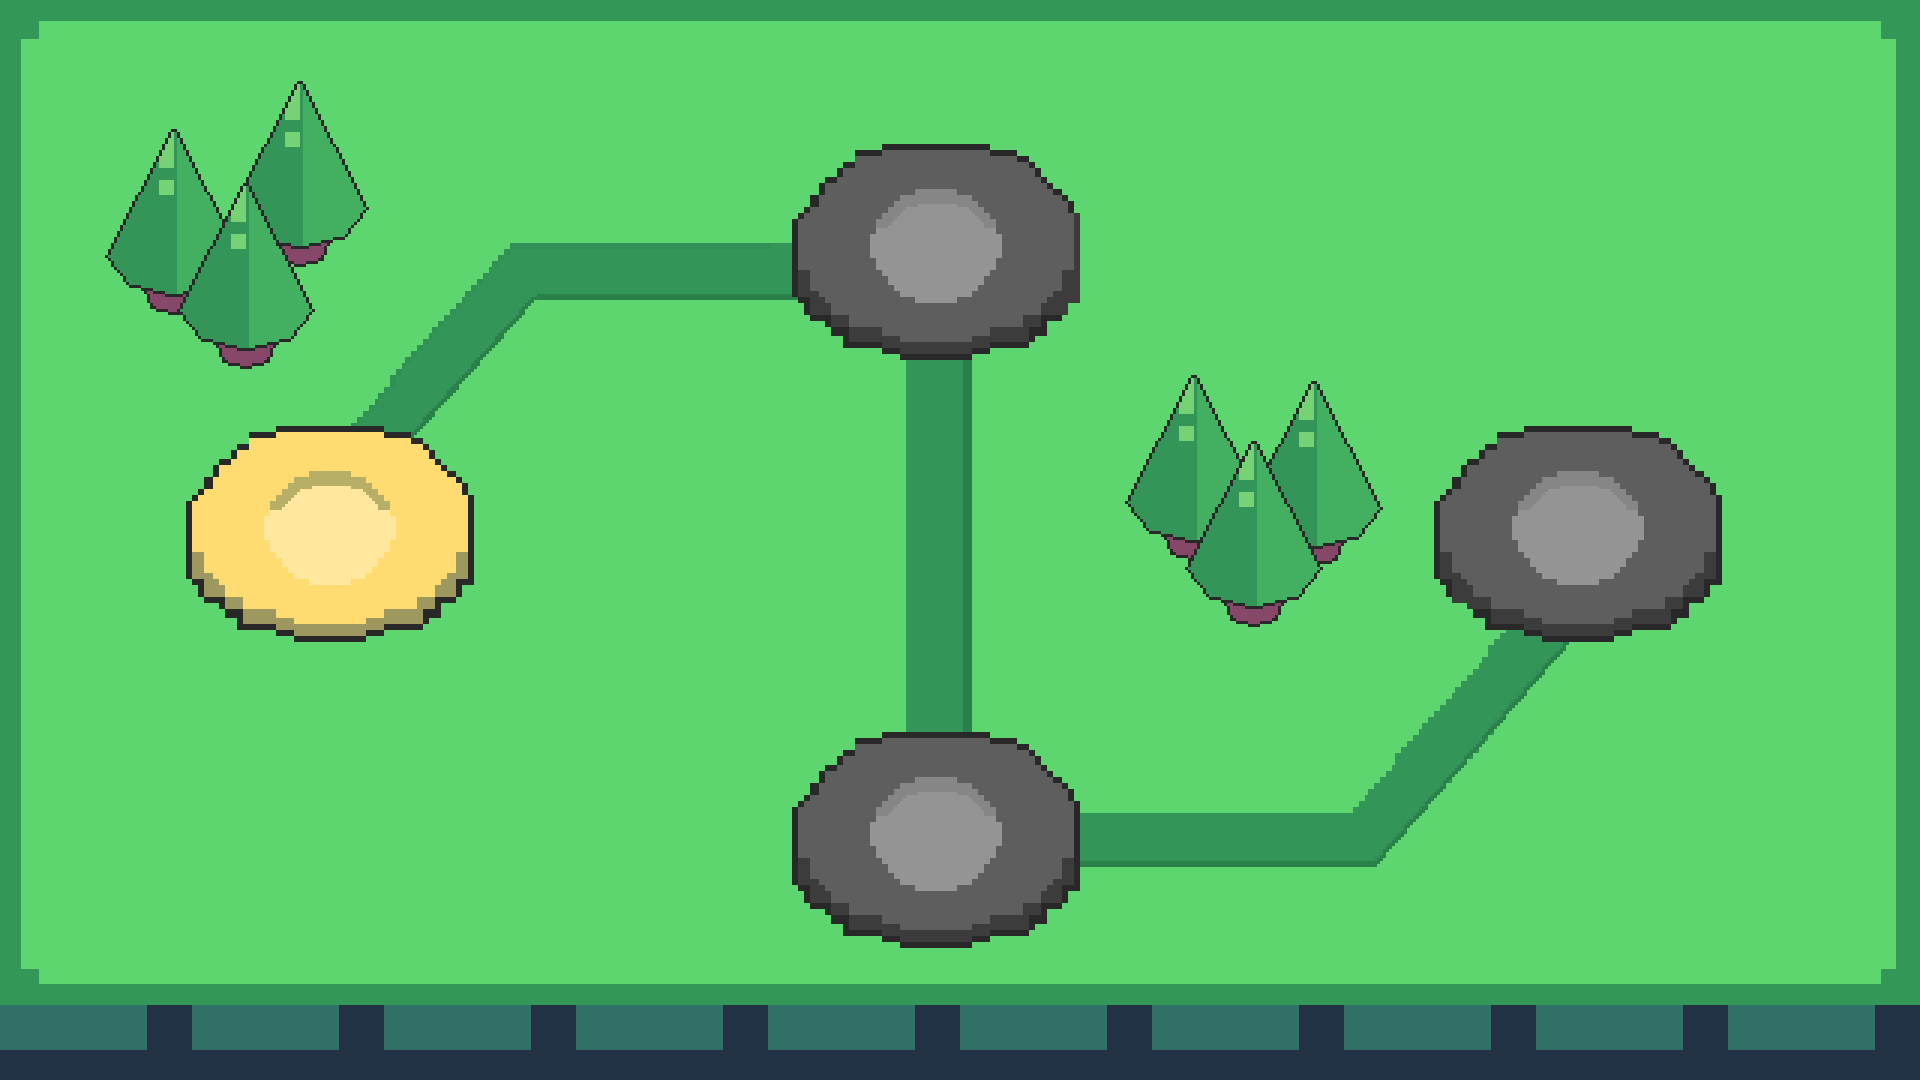
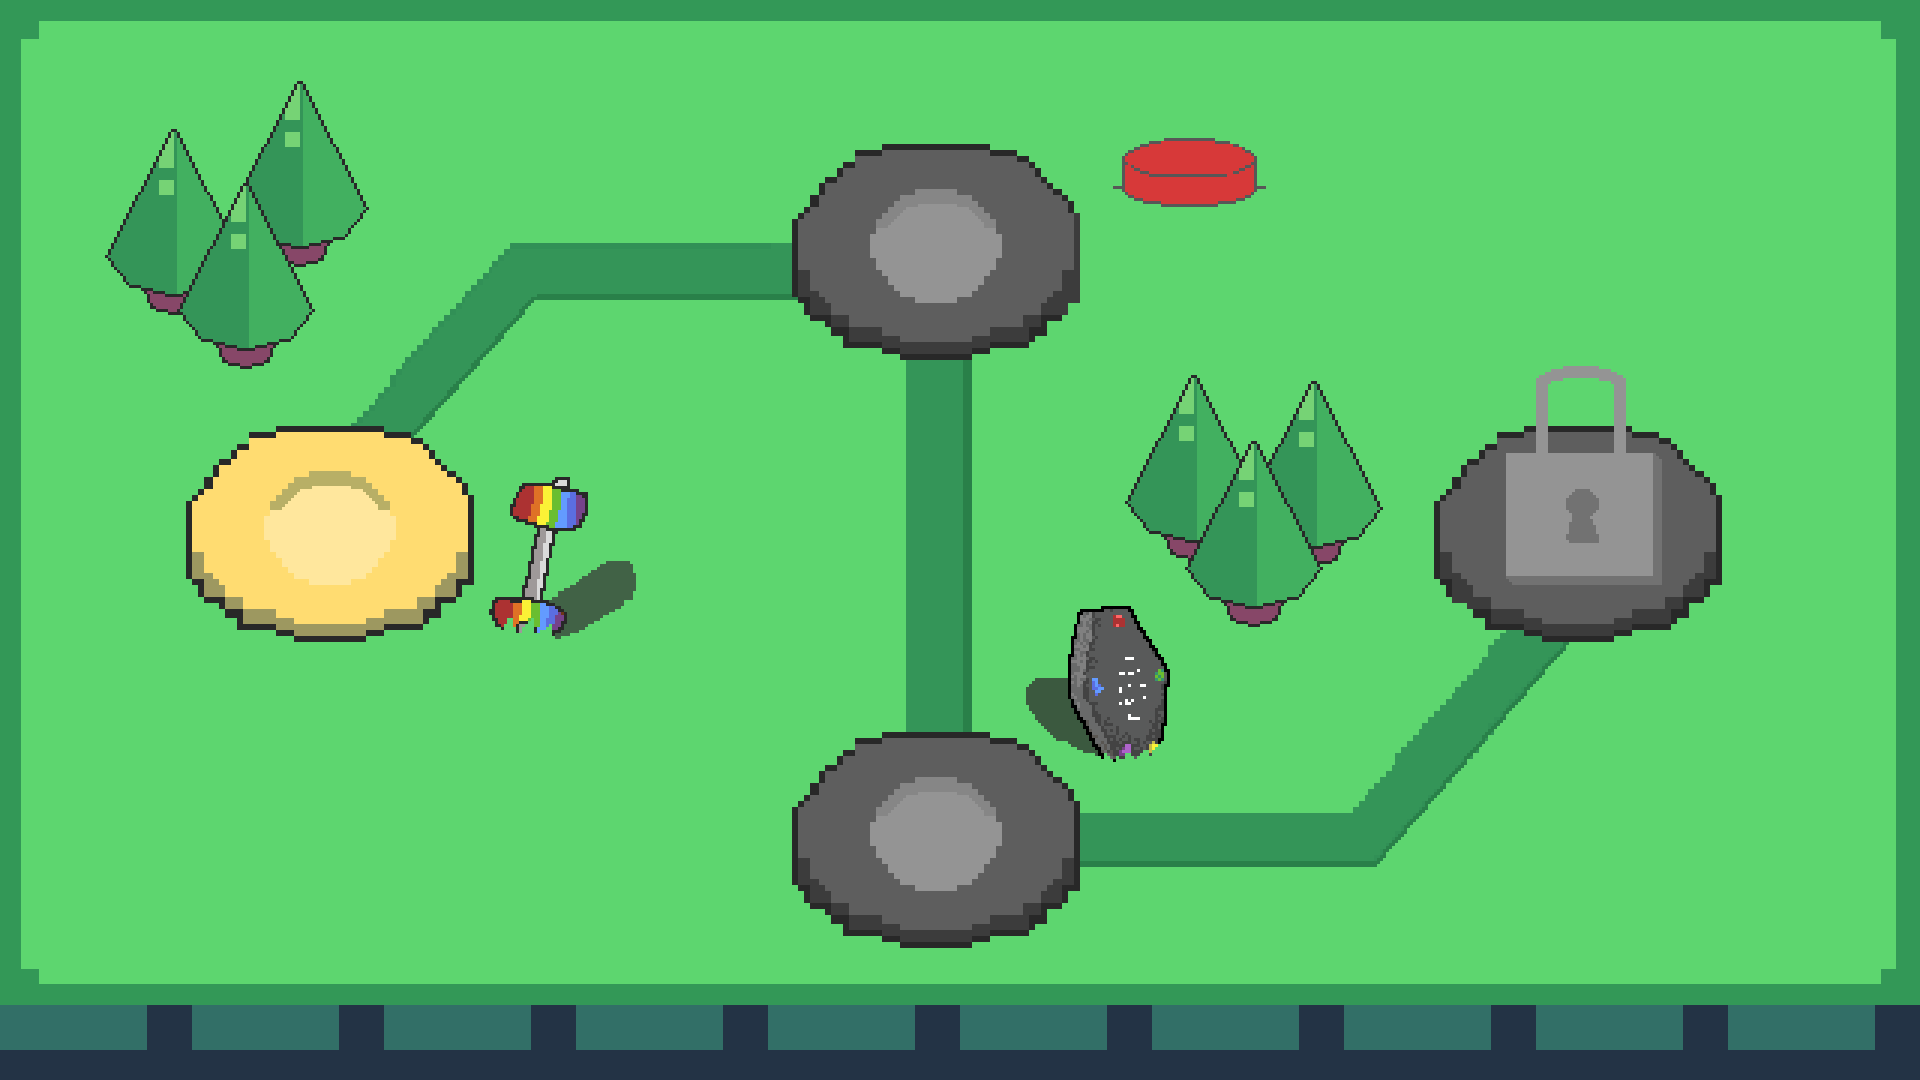
map1 완료!

diff --git a/map1.js b/map1.js
@@ -1,51 +1,73 @@
 class Map1 {
     constructor() {
-      // this.chrX = width / 2;
-      // this.chrY = height * 2/3;
-      // this.targetX = 0;
-      // this.targetY = 0;
+      this.chrX = -30;
+      this.chrY = height * 40 / 100;
+      this.targetX = 0;
+      // this.targetY = height * 45 / 100;
       // this.speed = 5;
-      // this.moveOn = false;
+      this.moveOn = false;
     }
 
     display() {
         imageMode(CENTER);
-        image(map1_bg[0], width / 2, height / 2, width, height);
+        if (frameCount % 60 < 30) image(map1_bg[0], width / 2, height / 2, width, height);
+        else image(map1_bg[1], width / 2, height / 2, width, height);
+
+        //spacebar
+        if (frameCount % 60 < 30) image(map1_chr[1], width / 2, height / 2, width, height);
+        else image(map1_chr[2], width / 2, height / 2, width, height);
     
         // 캐릭터 그리기
-        // image(map1_chr[0], this.chrX, this.chrY, 200, 200);
-        image(map1_chr[0], width / 2, height / 2, width, height);
+        imageMode(CENTER);
+        image(map1_chr[0], this.chrX, this.chrY, map1_chr[0].width, map1_chr[0].height);
+        // image(map1_chr[0], width / 2, height / 2);
         playOnce(snd[1]);
           
     }
 
-    // move() {
-    //   this.targetX = width / 4;
-    //   this.targetY = height / 2
-    //     if (this.moveOn) {
-    //         if (this.chrX > this.targetX + width / 8) {
-    //           this.chrX -= 10;
-    //         } 
-    //         else if (this.chrY > this.targetY + height / 12) {
-    //           this.chrY -= 10;
-    //         } 
-    //         else if (this.chrX > this.targetX) {
-    //           this.chrX -= 10;
-    //         } 
-    //         else if (this.chrY > this.targetY) {
-    //           this.chrY -= 10;
-    //         } 
-    //         else if (this.chrX <= this.targetX && this.chrY <=this.targetY) {
-    //           // Reached the destination
-    //           scene++;
-    //         }
-    //       } else {
-    //         this.chrX = width / 2;
-    //         this.chrY = height * 2 / 3;
-    //       }
+    move() {
+      // this.chrX = -30;
+      // this.chrY = height * 45 / 100;
+      this.targetX = width * 17.5 / 100;
 
-    // }
+      if(this.moveOn == true) {
+        this.chrX += 3;
+        if(this.chrX >= this.targetX){
+          this.chrX = width * 17.5 / 100;
+        }
+      }
+      else {
+        this.chrX +=0;
+        this.chrY = height * 40 / 100;
+      }
         
       
+        
+      }
+        // if (this.moveOn) {
+        //     if (this.chrX > this.targetX + width / 8) {
+        //       this.chrX -= 10;
+        //     } 
+        //     else if (this.chrY > this.targetY + height / 12) {
+        //       this.chrY -= 10;
+        //     } 
+        //     else if (this.chrX > this.targetX) {
+        //       this.chrX -= 10;
+        //     } 
+        //     else if (this.chrY > this.targetY) {
+        //       this.chrY -= 10;
+        //     } 
+        //     else if (this.chrX <= this.targetX && this.chrY <=this.targetY) {
+        //       // Reached the destination
+        //       scene++;
+        //     }
+        //   } else {
+        //     this.chrX = width / 2;
+        //     this.chrY = height * 2 / 3;
+        //   }
+
 }
+        
+      
+
 

diff --git a/sketch.js b/sketch.js
@@ -9,8 +9,8 @@
 
 
 // 게임 단계 - phase, scene, cut(각 클래스 안에서 다룸)
-let phase = 3;
-let scene = 4;
+let phase = 1;
+let scene = 0;
 
 // phase0의 클래스 - start
 let gameTitle;
@@ -280,13 +280,13 @@ function preload(){
   
   //phase1
   //map1
-  for(let i=0; i<1; i++){
+  for(let i=0; i<2; i++){
     map1_bg[i] = loadImage('assets/phase1/map1/bg/' + i + '.png');
   }
   for(let i=0; i<0; i++){
     map1_snd[i] = loadSound('assets/phase1/map1/snd/' + i + '.mp3');
   }
-  for(let i=0; i<1; i++){
+  for(let i=0; i<3; i++){
     map1_chr[i] = loadImage('assets/phase1/map1/chr/' + i + '.png');
   }
   
@@ -577,7 +577,7 @@ function draw() {
 
     case 1: //phase1
       if (scene == 0){ // map1
-        // map1.move();
+        map1.move();
         map1.display();
       }
       else if (scene == 1){ // story1
@@ -849,13 +849,19 @@ function keyPressed(){
           else {
             phase++;
             scene = 0;
+            
           }
         }
       break;
 
       case 1:
         if(scene == 0){ //map1
-          scene++;
+          if(map1.moveOn == false){
+            map1.moveOn = true;
+          }
+          else  {
+            scene++;
+          }
         }
         else if (scene == 1){ //story1
           if (story1.cut < story1.maxcut) story1.cut++;
